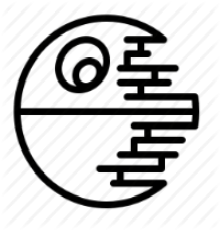
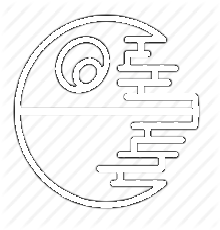
Add files via upload

Changed region(s): [[0.0545, 0.0609, 0.9273, 0.913]]

diff --git a/css/style.css b/css/style.css
@@ -1,5 +1,5 @@
 body {
-    background-color: #ffffff
+    background-color: #000000
 }
 
 * {
@@ -20,7 +20,7 @@ img {
 
 a {
     text-decoration: none;
-    color: #000000;
+    color: #ffffff;
     margin-left: 480px;
     margin-right: 600px;
     text-align: center;
@@ -29,7 +29,7 @@ a {
 
 h1   {
     text-decoration: none;
-    color: #000000;
+    color: #ffffff;
     margin-left: center;
     margin-right: 0px;
     text-align: center;
@@ -41,7 +41,7 @@ h1   {
     width: 100%;
     float: left;
     padding: 35px 8%;
-    background-color: #ffffff
+    background-color: #000000
 }
 
 .button {
@@ -69,7 +69,7 @@ h1   {
     margin-block-end: 0%;
     width: 150px;
     height: 150px;
-    border: 2px solid #000000;
+    border: 2px solid #ffffff;
     float: left;
     padding-top: 20px;
     display: flex;
